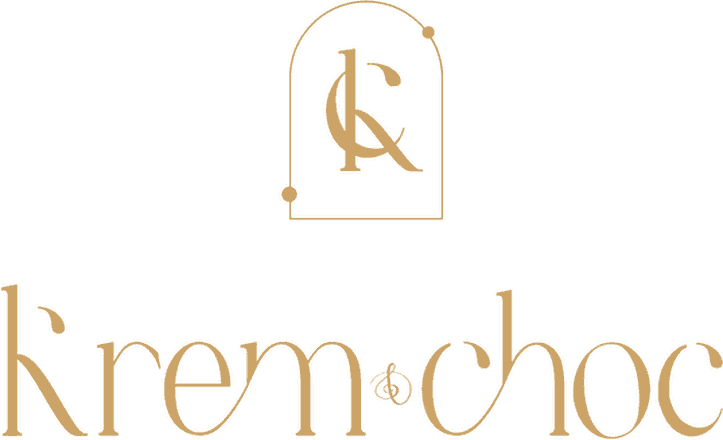
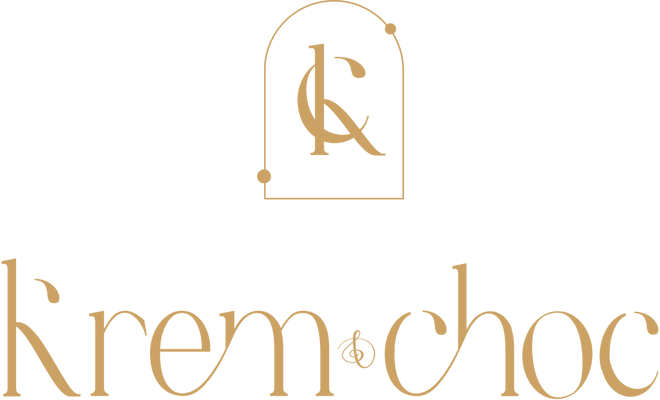
Krem&Choc: the mark was blurry because I broke it twice
Two faults, both mine, both in how the logo assets were cut.

The arch was enlarged 2.42x. It came out of wordmark.png, where the arch
occupies 161x215 px, and was resized up to 393x520. And both files were
quantised to about a dozen alpha levels — lockup had 12, arch had 11 with a
maximum alpha of 244, so it never reached full opacity. Antialiased hairline
curves need all 256 steps; with eleven every curve staircases, which reads as
blur. An earlier note said the quantisation cost nothing visible. That was
checked by file size and a downscaled preview rather than by looking at the
alpha channel, and it was wrong.

Her own site serves the lockup at 1600x1600 on a transparent background. The
arch inside it is 326px tall against the 215px that was in use, so both assets
are now cut from that at native resolution and never enlarged.

To keep them small without wrecking the alpha again: the artwork is one flat
colour plus an alpha ramp, so a PNG palette of 256 identical entries with tRNS
carrying alpha 0..255 stores every level at a byte per pixel. Alpha verified
byte-identical afterwards. lockup 19KB, arch 8KB — both smaller than the broken
versions, with 256 alpha levels instead of eleven.

The loader is 108px rather than 124 so that 108 x 3 sits just inside the arch's
true 326px and it is never enlarged on a phone. Share card rebuilt from the
sharp lockup.

Her photographs are still soft at large sizes and that is her source material,
[…]

diff --git a/templates/kremchoc.html b/templates/kremchoc.html
@@ -68,7 +68,7 @@
 <body id="top">
 
 <div class="loader" id="loader" aria-hidden="true">
-  <img src="../assets/kremchoc/arch.png" alt="" width="393" height="520">
+  <img src="../assets/kremchoc/arch.png" alt="" width="245" height="326">
   <span class="loader-bar"><i></i></span>
 </div>
 
@@ -78,7 +78,7 @@
 
 <header class="nav" id="nav">
   <a class="nav-logo" href="#top" aria-label="Krem&amp;Choc — home">
-    <img src="../assets/kremchoc/lockup.png" alt="Krem&amp;Choc" width="723" height="440">
+    <img src="../assets/kremchoc/lockup.png" alt="Krem&amp;Choc" width="660" height="400">
   </a>
   <nav class="nav-links" aria-label="Primary">
     <a href="#philosophy">Philosophy</a>
@@ -132,7 +132,7 @@
   <div class="hero-inner">
     <p class="eyebrow" data-fx="reveal">Leicester &middot; Est. by Zahra</p>
     <span class="hero-mark">
-      <img class="hero-word" src="../assets/kremchoc/lockup.png" alt="Krem&amp;Choc" width="723" height="440">
+      <img class="hero-word" src="../assets/kremchoc/lockup.png" alt="Krem&amp;Choc" width="660" height="400">
       <i class="sheen" aria-hidden="true"></i>
     </span>
     <h1 data-fx="text" data-fx-step="70">Bespoke cakes for<br><em>every occasion</em></h1>
@@ -488,7 +488,7 @@
   <div class="wrap foot-in">
     <span class="amb-glow amb-c" aria-hidden="true"></span>
     <div class="amb amb-quiet" aria-hidden="true"><i></i><i></i><i></i><i></i><i></i><i></i><i></i><i></i><i></i></div>
-    <img class="foot-logo" src="../assets/kremchoc/lockup.png" alt="Krem&amp;Choc" width="723" height="440" loading="lazy">
+    <img class="foot-logo" src="../assets/kremchoc/lockup.png" alt="Krem&amp;Choc" width="660" height="400" loading="lazy">
     <p class="foot-line">Bespoke cakes for every occasion.</p>
     <div class="socials" id="socials"></div>
     <p class="foot-meta"><span>Leicester, UK</span><span>kremchoc@gmail.com</span><span>By enquiry only</span></p>

diff --git a/templates/kremchoc.css b/templates/kremchoc.css
@@ -90,7 +90,9 @@ main,.nav,.foot{position:relative;z-index:2}
   position:fixed;inset:0;z-index:120;display:grid;place-items:center;align-content:center;gap:28px;
   background:var(--green);transition:opacity .7s var(--ease),visibility .7s;
 }
-.loader img{height:clamp(84px,15vh,124px);width:auto;animation:lpop 1.6s var(--ease) both}
+/* 108px, not 124: the arch is 326px tall at its true resolution, and 108 x 3
+   is 324 — exactly 1:1 on a three-times phone, so it never has to be enlarged */
+.loader img{height:clamp(80px,14vh,108px);width:auto;animation:lpop 1.6s var(--ease) both}
 .loader-bar{display:block;width:clamp(110px,28vw,180px);height:1px;background:var(--line);overflow:hidden}
 .loader-bar i{display:block;height:100%;width:40%;background:var(--gold);animation:lbar 1.15s var(--ease) infinite}
 @keyframes lpop{from{opacity:0;transform:scale(.9) translateY(14px)}60%{opacity:1}to{opacity:1;transform:none}}

diff --git a/PROJECT-NOTES.md b/PROJECT-NOTES.md
@@ -893,3 +893,55 @@ heading is the section's own top padding and the landing should not add to it.
 The interaction checks used to assert "top is near 92px", which passed either
 way. They now assert the section's top edge sits within 2px of the header's
 bottom edge, which is the actual requirement.
+
+### Krem&Choc — why the mark looked blurry, and it was self-inflicted
+
+Two faults, both introduced when the logo assets were first cut:
+
+**1. The arch was enlarged 2.42x.** It was cropped out of `wordmark.png`
+(703x560), where the arch occupies only 161x215 px, and then resized up to
+393x520. No amount of care downstream recovers detail that was never there.
+
+**2. Both files were quantised to about a dozen alpha levels.** `quantize()`
+collapses the alpha channel along with the colour: `lockup.png` had 12 alpha
+levels and `arch.png` 11, with a maximum alpha of 244 — so it never even
+reached full opacity. Antialiased hairline curves need the full 256 steps;
+with eleven, every curve staircases, and that reads as blur. The earlier note
+claiming the quantisation cost nothing visible was wrong: it was checked by
+file size and a downscaled preview, not by looking at the alpha channel.
+
+**The source.** Her own site serves the lockup at **1600x1600** with a
+transparent background
+(`kremchoc.co.uk/_assets/media/49a8d930ed58d0cb3ba3086c5d09e0ca.png`). The arch
+inside it is 326px tall against the 215px that was being used — so both assets
+are now cut from that at native resolution and never enlarged.
+
+**Keeping the file small without wrecking the alpha.** The artwork is one flat
+colour plus an alpha ramp, so a PNG palette of 256 identical entries with tRNS
+carrying alpha 0..255 stores every alpha level at one byte per pixel:
+
+    im = Image.fromarray(alpha, 'P')
+    im.putpalette(list(GOLD) * 256)
+    im.save(out, optimize=True, transparency=bytes(range(256)))
+
+Verified byte-identical alpha afterwards. lockup 19KB, arch 8KB — both SMALLER
+than the broken quantised versions, with 256 alpha levels instead of eleven.
+
+The loader is sized `clamp(80px,14vh,108px)` rather than 124px so 108 x 3 = 324
+sits just inside the arch's true 326px and it is never enlarged on a phone.
+
+**What is still soft, and why it is not fixable here.** Her photographs are the
+limit, not the markup. `scripts`-free audit at four viewports, comparing each
+image's natural width against CSS width x DPR:
+
+    hero.jpg    900dp available, needs 2458dp on a 2x retina desktop  2.73x
+    band.jpg   1800dp available, needs 5120dp                         2.84x
+    quote.jpg  1600dp available, needs 5120dp                         3.20x
+    g1..g6      760dp available, needs  813dp on a 2x laptop          1.07x
+
+The originals on her own site are 1120x2398 and one 2048x1716 at 22KB. band and
+quote were themselves cut larger than their source, so they carry invented
+pixels — but re-cutting them means guessing the original crop box, and a fuzzy
+match would change WHICH part of her photograph is shown. Left alone
+deliberately. The fix is higher-resolution photographs from her, which is
+already on the outstanding list.
